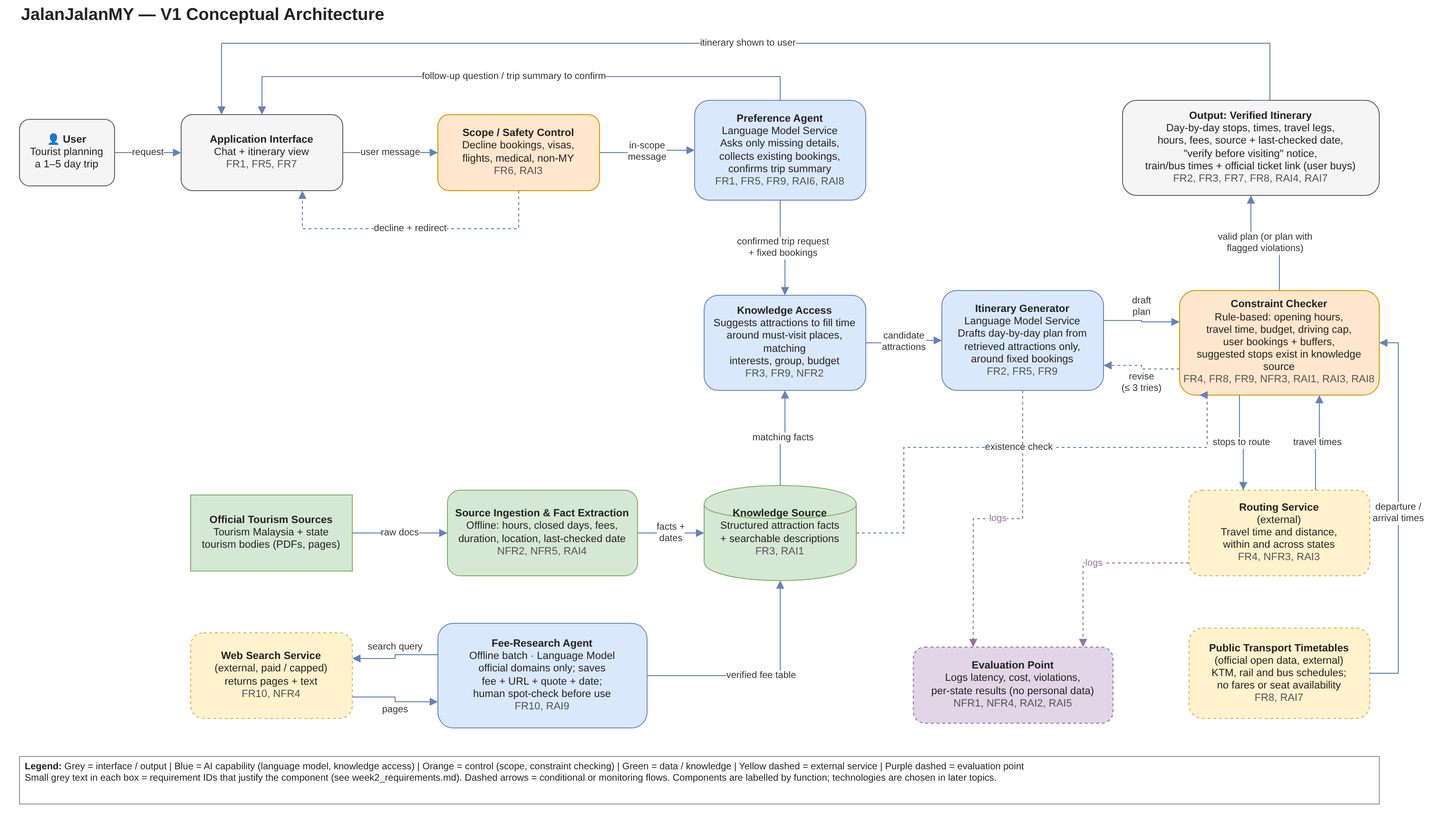
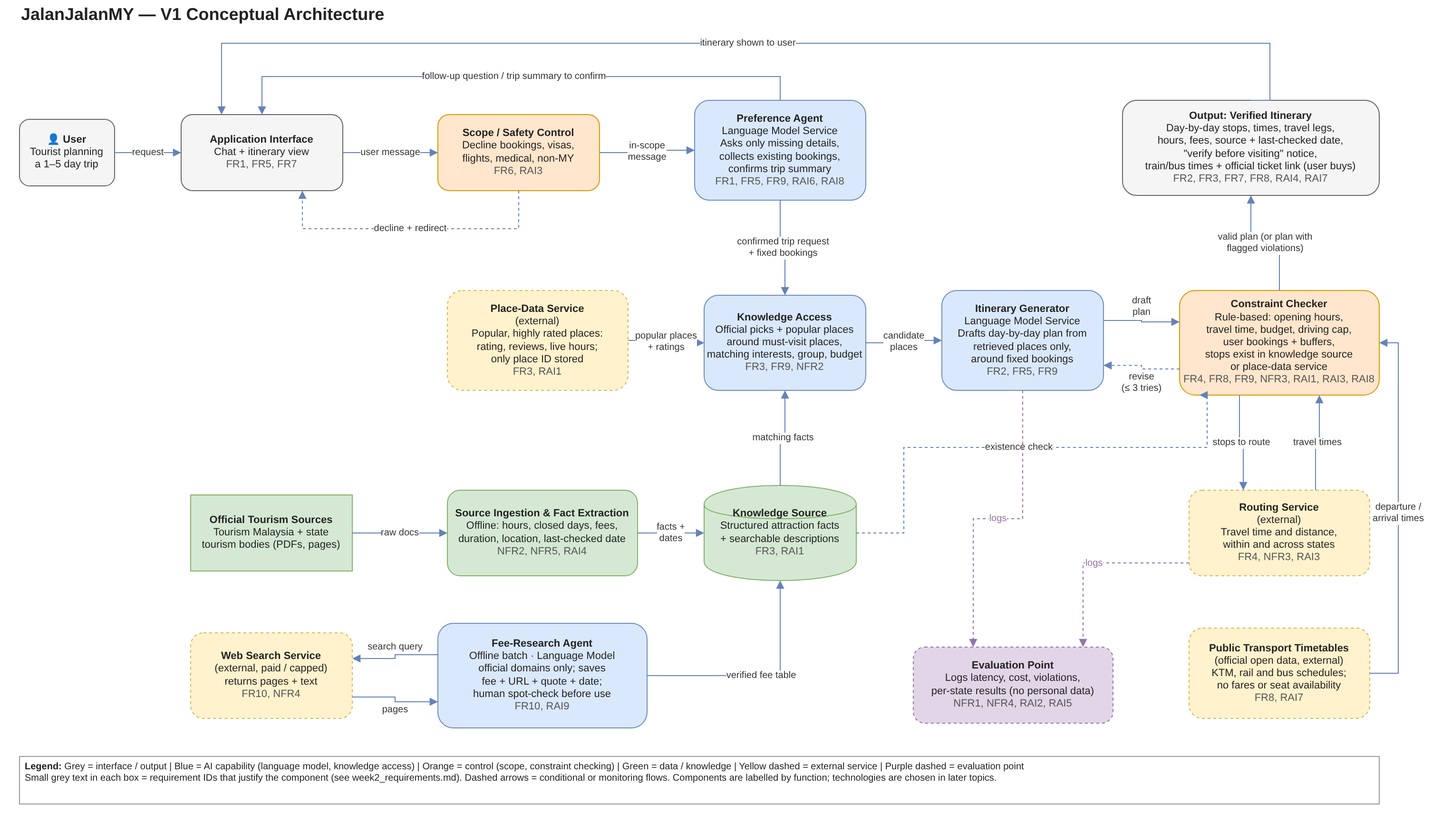
Week 2: add popular places (place-data service) to grounding sources

Changed region(s): [[0.28, 0.339, 0.591, 0.4932], [0.8399, 0.4007, 0.9332, 0.4623], [0.6843, 0.4007, 0.7466, 0.4315]]

diff --git a/docs/week2_requirements.md b/docs/week2_requirements.md
@@ -2,6 +2,7 @@
 
 Version: 1.0
 Project: JalanJalanMY — Grounded Itinerary Planner for Malaysia
+Builds on: `docs/week1_project_scope.md`
 
 ---
 
@@ -11,17 +12,18 @@ Project: JalanJalanMY — Grounded Itinerary Planner for Malaysia
 |---|---|
 | **Problem Evidence** | **1. AI travel tools give wrong or non-existent recommendations.** In an August 2026 survey of U.S. leisure travellers, 16% of those who used AI for travel were recommended a place, tour or activity that did not exist, and 55% received at least one bad recommendation. Incorrect prices, hours or details was the most common problem (27%). Source: Greetwell survey via Stacker/KEYT, 16 Sept 2026 — https://keyt.com/lifestyle/travel/stacker-travel/2026/09/16/survey-ai-hallucinated-travel-destinations-for-1-in-6-users/ (note: run by a travel concierge company). <br>**2. Malaysia's visitor market is large and growing.** 42.2 million visitor arrivals in 2025 (+11.2% from 38 million in 2024); Visit Malaysia 2026 targets about 45 million visitors. Sources: https://says.com/my/news/malaysia-records-42-2-million-visitors-in-2025 ; https://www.ipohecho.com.my/2025/04/30/malaysia-sets-sights-on-45-million-tourists-rm270-billion-in-revenue-for-vm2026/ <br>Together: many people plan Malaysian trips, and the AI tools they increasingly use are unreliable on exactly the facts a plan depends on (hours, prices, existence). |
 | **Existing Approaches** | **1. TravelPlanner benchmark** (Xie et al., ICML 2024) — evaluates LLM agents on multi-constraint travel planning; shows GPT-4 reached only a 0.6% success rate. <br>**2. LLM + formal verification** (Hao et al., arXiv:2404.11891) — the LLM converts the request into a constraint problem for a solver; 93.9% success on TravelPlanner, but on synthetic U.S. data. <br>**3. Official tourism portals** (Tourism Malaysia e-brochures, state tourism boards) — authoritative attraction information, but static, split by state and not personalised. <br>**4. Itinerary apps** (e.g. Wanderlog) — help users arrange chosen places, but rely on the user or generic web data and do not verify plans against official opening hours. |
-| **Project / Engineering Gap** | LLMs can personalise trips but cannot reliably satisfy hard constraints; official Malaysian tourism information is reliable but fragmented across national and state sources and not personalised; existing planners do not check whether a day — especially a cross-state day — is physically possible. The practical gap is **poor grounding and missing feasibility checking** for personalised Malaysian itineraries. (This is an engineering gap, not a claim of scientific novelty.) |
-| **Objective O1** | To design a grounded itinerary planner for Malaysia that uses official national and state tourism sources as its knowledge base and an external routing service for travel times within and across states. |
+| **Project / Engineering Gap** | LLMs can personalise trips but cannot reliably satisfy hard constraints; official Malaysian tourism information is reliable but fragmented across national and state sources, not personalised, and covers only part of what tourists want to visit (for example, popular cafés and food spots); existing planners do not check whether a day — especially a cross-state day — is physically possible. The practical gap is **poor grounding and missing feasibility checking** for personalised Malaysian itineraries. (This is an engineering gap, not a claim of scientific novelty.) |
+| **Objective O1** | To design a grounded itinerary planner for Malaysia that recommends only verifiable places — official picks from national and state tourism sources (its knowledge base) and popular, highly rated places from a place-data service — and uses an external routing service for travel times within and across states. |
 | **Objective O2** | To develop the planner with a conversational preference agent that collects missing trip details, structured fact extraction (hours, closed days, fees, visit duration, location), preference-based retrieval, a language-model itinerary generator, and a constraint checker that rejects plans with closed venues, impossible travel times or over-budget days. |
 | **Objective O3** | To evaluate the planner on constraint-violation rate, grounding, fact accuracy, preference-collection accuracy, coverage fairness across states, latency and cost. |
 | **Intended Users** | Domestic and international leisure tourists planning a 1–5 day trip in Malaysia (one state, or neighbouring states by road), including families, elderly travellers and users with budget, accessibility or dietary needs. |
-| **Supported Tasks** | 1. Collect trip preferences through a short conversation (destination, days, budget, transport, interests, group, pace, accessibility/food needs). <br>2. Generate a day-by-day itinerary with times, stops and travel legs. <br>3. Show each stop's opening hours, fee and official source with a "last checked" date. <br>4. Check and report feasibility (opening hours, travel time, budget). <br>5. Revise the plan when the user changes a preference (e.g. "add Ipoh", "make it cheaper"). |
-| **Information / Knowledge Domain** | Official Malaysian tourism information: attractions, opening hours, closed days, entry fees, typical visit duration, location and category, from Tourism Malaysia and state tourism bodies. Travel time and distance from a routing service. Full evaluation on 4 states: Penang, Kuala Lumpur, Melaka, Sabah. |
+| **Supported Tasks** | 1. Collect trip preferences through a short conversation (destination, days, budget, transport, interests, group, pace, accessibility/food needs). <br>2. Generate a day-by-day itinerary with times, stops and travel legs. <br>3. Show each stop's opening hours, fee and source ("Official guide" or "Popular" with its rating) with a "last checked" date. <br>4. Check and report feasibility (opening hours, travel time, budget). <br>5. Revise the plan when the user changes a preference (e.g. "add Ipoh", "make it cheaper"). <br>6. For public-transport legs, show scheduled departure and arrival times from official operator timetables, with a link to the operator's official ticketing site so the user can buy the ticket themselves. <br>7. Plan around the user's existing bookings and fixed plans — booked flights, buses or trains (place and departure/arrival time), hotel location, timed reservations and a few must-visit places (typically 2–3); the system suggests the remaining stops. |
+| **Information / Knowledge Domain** | Official Malaysian tourism information: attractions, opening hours, closed days, entry fees, typical visit duration, location and category, from Tourism Malaysia and state tourism bodies. Popular, highly rated places (name, rating, review count, location, live opening hours) from a place-data service (Google Places). Travel time and distance from a routing service. Official public transport timetables (KTMB, Rapid KL / Rapid Penang, BAS.MY) from Malaysia's open-data portal. A verified fee table for ticketed attractions, built in advance by a fee-research agent from official attraction websites and government pages. Full evaluation on 4 states: Penang, Kuala Lumpur, Melaka, Sabah. |
 | **Operating Context** | A web application used before a trip (planning at home) and occasionally during the trip on a phone. Single user per session; no account required. |
-| **Important Constraints** | **Data:** official sources differ in format and detail by state; hours and fees change over time. **Access:** the routing service has a monthly free usage cap (10,000 requests per SKU per month for route computation); routing results may not be stored long-term under the provider's terms. **Budget:** student project — near-zero running cost. **Time:** one semester. **Policy:** source documents not redistributed in the public repo; API keys never committed. **Technical:** cross-state routing by road only within Peninsular Malaysia. |
-| **Explicit Out-of-Scope Tasks** | Booking or paying for hotels, transport, tickets or tours. Flights, including Peninsular ↔ East Malaysia. Trips outside Malaysia. Visa, immigration or legal advice. Medical or safety-critical advice (e.g. whether a hike is safe for a heart condition). Recommending places that are not in the official knowledge base. Guaranteeing that hours or prices are current. |
-| **Evaluation Focus** | Does JalanJalanMY produce personalised itineraries that are **grounded** (every stop comes from an official source), **feasible** (no closed venues, achievable travel times, within budget) and **accurate** (correct hours and fees) — consistently across states — at acceptable latency and cost? |
+| **Important Constraints** | **Data:** official sources differ in format and detail by state; hours and fees change over time. **Access:** the routing service has a monthly free usage cap (10,000 requests per SKU per month for route computation); routing results may not be stored long-term under the provider's terms; the place-data service has a similar free cap and its terms allow only the place ID to be stored, so ratings and hours are fetched live and shown with the provider's attribution. **Budget:** student project — near-zero running cost. **Time:** one semester. **Policy:** source documents not redistributed in the public repo; API keys never committed. **Technical:** cross-state routing by road only within Peninsular Malaysia. Official timetables contain schedules only — no fares or seat availability, and there is no public ticketing API, so the system cannot check or buy tickets. Web search is available only through paid or capped search services (Google's own search API is closing to new users), and search results can show outdated or reseller prices, so fees are researched in a batch and verified, not searched live for every user. |
+| **Explicit Out-of-Scope Tasks** | Booking or paying for hotels, transport, tickets or tours. Checking ticket prices or seat availability. Searching, comparing or booking flights (users may enter a flight they have already booked, and the plan works around it). Trips outside Malaysia. Changing, cancelling or verifying the user's bookings. Visa, immigration or legal advice. Medical or safety-critical advice (e.g. whether a hike is safe for a heart condition). Recommending places that cannot be verified in the official knowledge base or the place-data service. Guaranteeing that hours or prices are current. |
+| **Evaluation Focus** | Does JalanJalanMY produce personalised itineraries that are **grounded** (every stop comes from an official guide or a verified place-data record), **feasible** (no closed venues, achievable travel times, within budget) and **accurate** (correct hours and fees) — consistently across states — at acceptable latency and cost? |
+| **Traceability** | O1 → FR3, FR4, NFR2, RAI1 (grounding, sources). O2 → FR1, FR2, FR5, FR6, FR8, FR9, FR10, NFR1, NFR3, RAI7, RAI8, RAI9 (agents, planning, checking, public transport legs, fixed bookings, verified fees). O3 → all NFR and RAI thresholds, evaluated in `week2_evaluation_criteria.md`. |
 
 ---
 
@@ -29,12 +31,16 @@ Project: JalanJalanMY — Grounded Itinerary Planner for Malaysia
 
 | # | Requirement — The system SHALL | Scope Boundary — SHALL NOT (where relevant) |
 |---|---|---|
-| FR1 | Ask the user for any missing trip details (destination state(s), number of days, daily budget, transport mode, interests, travel group, pace, accessibility and dietary needs), and confirm a trip summary before generating a plan. | Generate a plan without confirming the trip summary, or ask again for details the user has already given. |
+| FR1 | Ask the user for any missing trip details (destination state(s), number of days, daily budget, transport mode, interests, travel group, pace, accessibility and dietary needs, and any existing bookings or must-visit places), and confirm a trip summary before generating a plan. | Generate a plan without confirming the trip summary, or ask again for details the user has already given. |
 | FR2 | Generate a day-by-day itinerary for 1–5 days showing, for each stop, the planned arrival time, visit duration and travel time from the previous stop. | Plan trips longer than 5 days, trips outside Malaysia, or trips requiring flights. |
-| FR3 | Include only attractions that exist in the official-source knowledge base, and show each stop's opening hours, entry fee, source reference and "last checked" date. | Recommend or invent places, events or details not supported by an official source. |
-| FR4 | Check every plan before display for: venue open at the planned time, achievable travel time between consecutive stops, and total daily cost within the user's budget; and revise or flag any plan that fails a check. | Show a plan containing a known violation without clearly marking it. |
+| FR3 | Suggest only verified places: attractions in the official-source knowledge base ("Official guide") or popular places from the place-data service that meet a popularity threshold (proposed: rating ≥ 4.2 from ≥ 500 reviews; "Popular on Google Maps, 4.6★"). Show each suggested stop's label, opening hours, entry fee, source reference and "last checked" date. Places the user names that cannot be found in either source may be included, labelled "added by you — details not verified". | Recommend or invent places, events or details not supported by an official source or a place-data record; rank places by rating alone. |
+| FR4 | Check every plan before display for: venue open at the planned time, achievable travel time between consecutive stops, total daily cost within the user's budget, and the user's fixed bookings respected with time buffers; and revise or flag any plan that fails a check. | Show a plan containing a known violation without clearly marking it. |
 | FR5 | Update the itinerary when the user changes a preference (e.g. adds a state, lowers the budget, changes the pace), and re-run the feasibility checks. | Silently drop previously confirmed preferences when updating. |
 | FR6 | Decline requests outside the defined trip-planning scope (bookings, payments, visas, flights, medical or legal questions, non-Malaysian destinations) and redirect the user to an appropriate official channel. | Perform bookings or payments, or give visa, legal or medical advice. |
+| FR7 | Present itineraries in clear English suitable for domestic and international tourists, including a "verify before visiting" notice. | — |
+| FR8 | For public-transport legs (e.g. KTM, LRT/MRT, buses), show the scheduled departure and arrival times from the operator's official timetable, and a link to the operator's official ticketing page so the user can buy the ticket themselves. | Check seat availability or fares, sell tickets, or book on the user's behalf; collect data from ticketing websites by scraping. |
+| FR9 | Accept fixed commitments entered by the user — booked transport (flight, bus or train: station/airport and departure/arrival time), accommodation location, timed reservations and must-visit places — and build the itinerary around them: start each day's activities after arrival plus a buffer, end before departure minus a buffer, and include the user's must-visit places (typically 2–3) or explain why one cannot fit. The remaining time shall be filled with places the system suggests from the knowledge base and the place-data service to match the user's preferences and the location of the fixed points. | Move, change, cancel or verify the user's bookings; silently drop a must-visit place; ask for booking references, ticket numbers or passenger names. |
+| FR10 | Show the entry fee for ticketed attractions from a verified fee table built by a fee-research agent. The agent searches the web for each attraction's official price, accepts only official sources (the attraction's own website or government domains), and saves the fee with its source URL, the exact quoted sentence and the date found. Fees not in the table are shown as "check the official site". | Use reseller or blog prices; show a price without a source and date; search the web live for every user request. |
 
 ---
 
@@ -45,7 +51,7 @@ Project: JalanJalanMY — Grounded Itinerary Planner for Malaysia
 | NFR1 | Performance | The system shall return a complete verified itinerary within an acceptable waiting time, and respond to each preference question quickly. | Run the 40-request evaluation workload (10 per evaluated state, including 10 cross-state trips) and log end-to-end time; separately log time per preference-agent turn. | p90 itinerary latency; p90 agent-turn latency | Itinerary ≤ 20 s; agent turn ≤ 4 s |
 | NFR2 | Correctness | Opening hours and entry fees shown in itineraries shall match the official source. | Hand-check a random sample of at least 50 displayed stops against their official source pages. | Fact accuracy (%) | ≥ 95% |
 | NFR3 | Reliability | Displayed itineraries shall be feasible: no closed venues, achievable travel times, within budget. | Run the 40-request workload; check each displayed plan with an independent script (opening hours + recomputed travel times + cost total). | % of plans with zero constraint violations | ≥ 95% |
-| NFR4 | Cost | Running cost shall fit a student budget. | Record language-model token usage and routing-service calls across the evaluation workload. | Model cost per itinerary; routing calls per month | ≤ US$0.05 per itinerary (illustrative); routing calls within the provider's monthly free cap |
+| NFR4 | Cost | Running cost shall fit a student budget. | Record language-model token usage, routing-service calls and place-data calls across the evaluation workload. | Model cost per itinerary; routing and place-data calls per month; search requests per fee-table refresh | ≤ US$0.05 per itinerary (illustrative); routing calls, place-data calls and search requests within the providers' monthly free allowances |
 | NFR5 | Maintainability | Updated or newly added official source documents (e.g. a new state) shall be incorporated without code changes to other components. | Controlled update test: replace one state's source document and add one new state's sources; time the process. | Update time; code files changed | ≤ 15 min; 0 code files changed |
 
 ---
@@ -54,15 +60,18 @@ Project: JalanJalanMY — Grounded Itinerary Planner for Malaysia
 
 | # | Responsible AI Risk | Requirement | Measurement Method | Metric | Threshold |
 |---|---|---|---|---|---|
-| RAI1 | Hallucination / Grounding | Every stop shall be traceable to an official source in the knowledge base, with a working source reference. | For all displayed stops in the evaluation workload, match each stop to a knowledge-base entry and check the source reference. | Grounded-stop rate; source-reference presence rate | 100% grounded; 100% presence |
+| RAI1 | Hallucination / Grounding | Every stop the system suggests shall be traceable to an official source in the knowledge base or to a place-data record, with a working source reference and the correct label; user-named places found in neither source shall be clearly labelled as not verified. | For all displayed stops in the evaluation workload, match each suggested stop to a knowledge-base entry or a place-data record and check the source reference and label; check that every user-named place found in neither source carries the label. | Grounded-stop rate; source-reference presence rate | 100% grounded; 100% presence |
 | RAI2 | Fairness / Coverage across states | Plan quality shall not differ beyond an agreed tolerance between evaluated states. | Compute NFR3 feasibility rate and preference-match rate separately for Penang, Kuala Lumpur, Melaka and Sabah. | Largest gap between any two states | ≤ 10 percentage points |
 | RAI3 | Safety / Scope | The system shall decline out-of-scope or unsafe requests and redirect appropriately, and shall cap daily driving time. | Run a scope/safety test set of at least 20 queries (bookings, visas, medical, flights, foreign destinations, unsafe activities); check all cross-state plans for driving time. | Refusal-and-redirect success rate; plans exceeding the driving cap | ≥ 95% refusal success; 0 plans with > 5 h driving per day |
 | RAI4 | Outdated information / Transparency | Every stop shall show a "last checked" date, and stops whose source is older than the freshness limit shall be flagged. | Inspect all displayed stops; compare source dates against the freshness limit. | Date-shown rate; unflagged stale stops | 100% shown; 0 unflagged stops older than 6 months |
 | RAI5 | Privacy & Security | The system shall not store personal data from conversations, and API keys shall never appear in the repository or client. | Inspect logs after the test workload for names/phone numbers/emails; run a secret scan on the repository history. | PII items found in logs; secrets found in repo | 0; 0 |
 | RAI6 | Misread preferences | The preference agent shall correctly capture the user's stated trip details. | Run 30 scripted conversations with known target values (including vague answers like "not too expensive"); compare the confirmed summary to the targets. | Slot-filling accuracy; average questions per conversation | ≥ 90% accuracy; ≤ 5 questions |
+| RAI7 | Timetable changes / Transparency | Every public-transport leg shall match the official timetable, show a "times may change — check with the operator" notice, and link to the official ticketing page. | Check a sample of at least 20 public-transport legs against the operator's published timetable; inspect every leg for the notice and a working official link. | Timetable match rate; legs with notice and working link | ≥ 95%; 100% |
+| RAI8 | Missed connections | Plans shall never cause the user to miss a booked flight, bus or train: entered bookings are read back for confirmation, and minimum buffers apply (default: arrive ≥ 90 min before a domestic flight and ≥ 30 min before a train or bus; start activities ≥ 60 min after a flight lands and ≥ 15 min after a train or bus arrives). | Run at least 15 workload requests with entered bookings (including tight and impossible cases); check every plan against the bookings and buffers. | Plans violating a booking or buffer; impossible cases clearly reported to the user | 0; 100% |
+| RAI9 | Fee provenance / Hallucination | Every fee in the table shall come from an official source and be backed by a quoted sentence from that source, and the agent's extracted fees shall match the official pages. | Hand-check at least 30 fees from the table against their official pages (ticket type, price, currency); audit every row for an official URL, a quote and a date; check every source domain against the allowlist. | Fee match rate; rows with URL + quote + date; rows from non-official domains | ≥ 95%; 100%; 0 |
 
 ---
 
-## Reflection — Which Responsible AI requirement is most difficult to measure or enforce?
+## 🤔 Reflection — Which Responsible AI requirement is most difficult to measure or enforce?
 
-**RAI4 (outdated information)** is the hardest to enforce. RAI1 can be enforced in code because a stop either exists in the knowledge base or it does not. RAI4 depends on facts that change in the real world without telling us: a museum can change its hours or close permanently the day after we collect the data, and the official page itself may be out of date. The system can only show the date we last checked and flag old entries — it cannot know the true current state. Measuring it is also costly, because checking whether the information is still correct needs manual re-verification of each source. This means RAI4 reduces the harm (users are warned) rather than removing it, which is why the "verify before visiting" notice is part of FR7.
+**RAI4 (outdated information)** is the hardest to enforce. RAI1 can be enforced in code because a stop either exists in the knowledge base or the place-data service, or it does not. RAI4 depends on facts that change in the real world without telling us: a museum can change its hours or close permanently the day after we collect the data, and the official page itself may be out of date. The system can only show the date we last checked and flag old entries — it cannot know the true current state. Measuring it is also costly, because checking whether the information is still correct needs manual re-verification of each source. This means RAI4 reduces the harm (users are warned) rather than removing it, which is why the "verify before visiting" notice is part of FR7.

diff --git a/docs/week2_architecture_decisions.md b/docs/week2_architecture_decisions.md
@@ -1,7 +1,8 @@
 # Architecture Decisions & Traceability — JalanJalanMY
 
-Version: 1.0
+Version: 1.1 (popular places added to grounding sources)
 Diagram: `docs/week2_architecture_v1.png`
+Builds on: `docs/week2_requirements.md`, `docs/week2_evaluation_criteria.md`
 
 ---
 
@@ -15,7 +16,7 @@ User Query → AI Application → AI Capability (language model) → Response
 **AI capability needed:** a language model that turns preferences into a plan.
 
 **Can this support our requirements?** Only partly. A language model alone can write a personalised plan (FR2), but it cannot:
-- guarantee every stop is real and from an official source (FR3, RAI1) — it plans from its own memory;
+- guarantee every stop is real and verifiable, from an official guide or a place-data record (FR3, RAI1) — it plans from its own memory;
 - know current opening hours and fees (NFR2);
 - calculate real travel times, especially across states (FR4, NFR3);
 - reliably refuse bookings, visas or unsafe requests (FR6, RAI3).
@@ -28,12 +29,15 @@ The TravelPlanner benchmark in our related work confirms this: a language model 
 
 | Requirement ID | What does the requirement need? | Architecture Response |
 |---|---|---|
-| FR3 / RAI1 | Every stop must come from an official source, with a source reference. | **Knowledge Source** of official attraction facts + **Knowledge Access** that retrieves only from it |
+| FR3 / RAI1 | Every stop must be verifiable — an official pick or a popular, highly rated place (proposed ≥ 4.2★ from ≥ 500 reviews) — with a source reference and label. | **Knowledge Source** of official attraction facts + external **Place-Data Service** for popular places (only the place ID stored) + **Knowledge Access** that retrieves only from these two |
 | NFR2 / RAI4 / NFR5 | Hours and fees must match the source, carry a "last checked" date, and be easy to update per state. | **Source Ingestion & Fact Extraction** (offline) that turns official documents into structured facts with dates |
 | FR4 / NFR3 | Plans must be checked for opening hours, travel time and budget before display. | **Constraint Checker** (rule-based) with a revise loop back to the generator |
 | FR4 / NFR3 / RAI3 | Real travel times are needed, within and across states, plus a daily driving cap. | External **Routing Service** called by the Constraint Checker |
 | FR1 / RAI6 | Missing trip details must be collected and confirmed before planning. | **Preference Agent** (language model service) in front of the planner |
 | FR6 / RAI3 | Bookings, visas, flights, medical and non-Malaysia requests must be declined and redirected. | **Scope / Safety Control** before the Preference Agent |
+| FR8 / RAI7 | Public-transport legs need official departure/arrival times and a link to the official ticketing site; no ticket checking or buying. | **Public Transport Timetables** (official open data) used by the generator and checker; output shows times + official ticketing link |
+| FR9 / RAI8 | The user's booked flights, trains, buses, hotel, reservations and must-visit places must shape the plan, with buffers so no connection is missed. | **Preference Agent** collects and reads back fixed bookings; **Itinerary Generator** plans around them; **Constraint Checker** enforces them as hard constraints with buffers |
+| FR10 / RAI9 | Entry fees for ticketed attractions must come from official sources with proof (URL, quote, date), and reseller prices must be rejected. | **Fee-Research Agent** (offline batch, language model + external **Web Search Service**) writes a **verified fee table** into the Knowledge Source after a human spot-check |
 | NFR1 / NFR4 / RAI2 / RAI5 | Latency, cost and per-state quality must be measured, without storing personal data. | **Evaluation Point** that logs metrics only (no personal data) |
 
 ---
@@ -42,11 +46,14 @@ The TravelPlanner benchmark in our related work confirms this: a language model 
 
 | Decision | Requirement / Constraint | Alternatives Considered | Selected Option | Trade-off Accepted |
 |---|---|---|---|---|
-| **AD1 — Ground plans in official knowledge** | FR3, RAI1, NFR2: every stop must exist in an official source with correct hours and fees | (a) Language model only; (b) live web search at query time; (c) curated knowledge source built from official documents | (c) Curated knowledge source + knowledge access | Smaller coverage (only places in official sources) and manual effort to collect and refresh data, in exchange for 100% grounding and checkable facts |
+| **AD1 — Ground plans in verified place data** | FR3, RAI1, NFR2: every stop must exist in a verifiable record with correct hours and fees; tourists also want popular places that brochures leave out | (a) Language model only; (b) live open web search at query time; (c) curated knowledge source from official documents only; (d) official knowledge source + popular places from a place-data service (e.g. Google Places) | (d) Official knowledge source + place-data service, both behind Knowledge Access; each stop labelled "Official guide" or "Popular" | Dependence on a third-party service, its free cap and terms (ratings and hours fetched live, only the place ID stored), and a popularity bias towards famous, crowded places (mitigated by ranking on interest match first and including at least one official or local pick per day); in exchange, much wider choice than brochures while keeping 100% grounding — no stop comes from model memory |
 | **AD2 — Separate rule-based constraint checker** | FR4, NFR3: displayed plans must be feasible (≥ 95% with zero violations) | (a) Ask the language model to respect constraints in its instructions; (b) full constraint solver that builds the plan; (c) language model drafts, rule-based checker verifies and requests revisions | (c) Generate-then-verify with up to 3 revision attempts | Extra latency and model cost per revision, and a plan may still be shown with flagged violations after 3 attempts; but much more reliable than instructions alone and simpler to build than a full solver |
 | **AD3 — External routing service for travel time** | FR4, NFR3, RAI3: real travel times within and across states; NFR4: low cost | (a) Straight-line distance × assumed speed; (b) open-source routing engine hosted ourselves; (c) external routing service | (c) External routing service, called only by the checker, results not stored long-term | Dependency on a third-party service, its usage cap and terms (results used live, not saved); in exchange for accurate road travel times without hosting our own routing |
 | **AD4 — Preference agent before planning** | FR1, RAI6: collect and confirm missing details with ≤ 5 questions | (a) Fixed form with all fields; (b) free-text request passed straight to the planner; (c) conversational agent that asks only for missing details | (c) Preference agent with a confirmed trip summary | More complex to build and test, and an extra language-model call per turn (latency, cost); but fewer unnecessary questions than a form and fewer misread requests than free text |
 | **AD5 — Explicit scope / safety control** | FR6, RAI3: ≥ 95% correct refusal of out-of-scope requests | (a) Instructions in the agent's prompt only; (b) explicit scope-control component before the agent | (b) Explicit scope / safety control | Possible false refusals of valid trip requests and an extra processing step; but scope behaviour can be tested and changed on its own |
+| **AD6 — Timetables + official ticketing links for public transport** | FR8, RAI7: show real departure/arrival times; FR6: no booking; legal and terms-of-use constraints | (a) Scrape ticketing sites for prices and seat availability; (b) third-party paid ticketing/booking API; (c) official open timetable data for times + a link to the operator's official ticketing page | (c) Official timetables + ticketing link; the user buys the ticket themselves | Users must check prices and seat availability on the operator's site, and timetables may change without notice; in exchange, no scraping, no payment handling, no paid API, and the system stays within its "plan, don't book" scope |
+| **AD7 — User bookings as hard constraints** | FR9, RAI8: never cause a missed flight, train or bus; respect must-visit places | (a) Mention bookings to the language model in its instructions only; (b) treat bookings as fixed time blocks that the generator plans around and the constraint checker enforces with minimum buffers | (b) Fixed time blocks + enforced buffers; bookings read back to the user for confirmation | Less flexibility — days with tight bookings get fewer stops, and when bookings and must-visit places cannot all fit, the system reports the conflict instead of producing a "complete" plan; in exchange, connections are protected by rules, not left to the model |
+| **AD8 — Fee-research agent in a verified batch** | FR10, RAI9: official fees with proof; NFR4: low cost; brochures carry almost no prices (Week 3–4 evidence) | (a) Collect fees fully by hand; (b) search the web live for every user request; (c) an agent searches in a batch, accepts only allowlisted official domains, saves URL + quote + date, then a person spot-checks before use | (c) Batch fee-research agent + human spot-check | Fees can be out of date between refreshes (mitigated by the date shown), and the batch needs a search service with a paid or capped allowance; in exchange, prices are checkable, reseller and invented prices are blocked, and users wait for no live searches |
 
 ---
 
@@ -54,10 +61,13 @@ The TravelPlanner benchmark in our related work confirms this: a language model 
 
 | Objective | Requirement | Evaluation Criterion | Architecture Element | Later Evidence |
 |---|---|---|---|---|
-| O1 | FR3 / RAI1 | Grounding and Source Traceability (100% grounded, 100% source refs) | Knowledge Source + Knowledge Access + Constraint Checker (existence check) | Grounding check over all stops in the 40-request workload |
+| O1 | FR3 / RAI1 | Grounding and Source Traceability (100% grounded, 100% source refs) | Knowledge Source + Place-Data Service + Knowledge Access + Constraint Checker (existence check) | Grounding check over all stops in the 40-request workload |
 | O1 | NFR2 / RAI4 | Fact Accuracy (≥ 95%) + last-checked dates | Source Ingestion & Fact Extraction | Hand-check of ≥ 50 stops against official pages; date/freshness audit |
 | O2 | FR4 / NFR3 | Plan Feasibility (≥ 95% zero-violation plans) | Constraint Checker + Routing Service | Independent feasibility script over the 40-request workload |
 | O2 | FR1 / RAI6 | Preference Collection (≥ 90% slot accuracy, ≤ 5 questions) | Preference Agent | 30 scripted conversations with known targets |
+| O2 | FR8 / RAI7 | Public Transport Leg Accuracy (≥ 95% timetable match; 100% notice + link) | Public Transport Timetables + Constraint Checker + Output | Sample check of ≥ 20 legs against operator timetables |
+| O2 | FR9 / RAI8 | Fixed-Booking Handling (0 violated bookings/buffers; 100% impossible cases reported) | Preference Agent + Itinerary Generator + Constraint Checker | ≥ 15 workload requests with entered bookings, incl. tight and impossible cases |
+| O1 | FR10 / RAI9 | Fee Research Accuracy (≥ 95% fee match; 100% URL + quote + date; 0 non-official domains) | Fee-Research Agent + Web Search Service + Knowledge Source (fee table) | Hand-check of ≥ 30 fees against official pages; audit of every fee row |
 | O2 | FR6 / RAI3 | Out-of-Scope Refusal (≥ 95%) | Scope / Safety Control | Scope/safety test set of ≥ 20 queries |
 | O3 | RAI2 | Coverage Fairness (≤ 10 pp gap between states) | Knowledge Source (per-state coverage) + Evaluation Point | Per-state feasibility and interest-match results |
 | O3 | NFR1 / NFR4 | Latency and Cost (p90 ≤ 20 s; ≤ US$0.05 per itinerary) | Evaluation Point | Latency and cost logs from the evaluation workload |
@@ -69,7 +79,7 @@ The TravelPlanner benchmark in our related work confirms this: a language model 
 | Question | Answer |
 |---|---|
 | Does each major component support a requirement or evaluation need? | Yes — every box in the diagram lists the requirement IDs that justify it (see Step C2). |
-| Is any important data source, safety control or evaluation point missing? | Official sources, scope control, constraint checker and an evaluation point are all present. A user-feedback loop is not in V1; it can be added once the system is tested with users. |
+| Is any important data source, safety control or evaluation point missing? | Official sources, a place-data service for popular places, scope control, constraint checker and an evaluation point are all present. A user-feedback loop is not in V1; it can be added once the system is tested with users. |
 | Have I added any technology or component that is not yet justified? | No specific technologies are named; components are labelled by function. Agentic re-planning during the trip is left out of V1 because no V1 requirement needs it. |
 | Is there a simpler architecture that could still satisfy the requirements? | Removing the Preference Agent (using a fixed form) would still satisfy FR2–FR4, but not FR1/RAI6 as written. If time runs short, a form is the fallback, and FR1 would be revised. |
 

diff --git a/docs/week2_evaluation_criteria.md b/docs/week2_evaluation_criteria.md
@@ -1,19 +1,23 @@
 # Evaluation Criteria — JalanJalanMY
 
 Version: 1.0
+Builds on: `docs/week2_requirements.md`
 
-**Evaluation workload (used by several criteria):** 40 trip requests — 10 per evaluated state (Penang, Kuala Lumpur, Melaka, Sabah), of which 10 in total are cross-state road trips in Peninsular Malaysia. Requests vary days (1–5), budget, transport, travel group and interests. Plus a scope/safety set of at least 20 queries and 30 scripted preference conversations.
+**Evaluation workload (used by several criteria):** 40 trip requests — 10 per evaluated state (Penang, Kuala Lumpur, Melaka, Sabah), of which 10 in total are cross-state road trips in Peninsular Malaysia. Requests vary days (1–5), budget, transport, travel group and interests. Plus a scope/safety set of at least 20 queries and 30 scripted preference conversations. At least 10 workload requests use public transport, so the plans include KTM, rail or bus legs, and at least 15 include user-entered bookings (e.g. a flight landing at Kota Kinabalu at 10:00 am).
 
 | Objective / Requirement ID | Evaluation Criterion | Capability Bucket | Measurement Method | Metric | Threshold | User / Business Outcome |
 |---|---|---|---|---|---|---|
 | O2 / FR4 / NFR3 | Plan Feasibility | Domain-specific capability | Check every displayed plan from the 40-request workload with an independent script: venue open at planned time, travel time recomputed between stops, daily cost total. | % of plans with zero constraint violations | ≥ 95% | Tourists can follow the plan as written without arriving at closed venues or missing stops. |
-| O1 / FR3 / RAI1 | Grounding and Source Traceability | Instruction-following capability | Match every displayed stop to a knowledge-base entry and confirm its source reference is present and points to the official page. | Grounded-stop rate; source-reference presence rate | 100%; 100% | No non-existent places; users can verify any stop against an official source. |
+| O1 / FR3 / RAI1 | Grounding and Source Traceability | Instruction-following capability | Match every suggested stop to a knowledge-base entry or a place-data record and confirm its source reference and label ("Official guide" / "Popular") are present and correct; check user-named places found in neither source are labelled "not verified". | Grounded-stop rate; source-reference presence rate | 100%; 100% | No non-existent places; users can verify any stop against an official guide or its map listing. |
 | O3 / NFR2 | Fact Accuracy (hours and fees) | Domain-specific capability | Hand-check a random sample of ≥ 50 displayed stops against their official source pages. | Fact accuracy (%) | ≥ 95% | Users can rely on the times and prices shown when planning their day and budget. |
 | O2 / FR1 / RAI6 | Preference Collection | Instruction-following capability | Run 30 scripted conversations with known target values, including vague answers; compare the confirmed trip summary with the targets. | Slot-filling accuracy; average questions per conversation | ≥ 90%; ≤ 5 questions | Plans match what the user actually wants, without a long questionnaire. |
 | O3 / RAI2 | Coverage Fairness across States | Domain-specific capability | Compute plan feasibility and interest-match rates separately for each evaluated state. | Largest gap between any two states | ≤ 10 percentage points | Tourists get similar quality whichever state they visit, including East Malaysia. |
 | O2 / FR6 / RAI3 | Out-of-Scope Refusal | Instruction-following capability | Run the scope/safety set (bookings, visas, flights, medical, foreign destinations, unsafe activities). | Refusal-and-redirect success rate | ≥ 95% | Users are not misled into thinking the system books, advises on visas, or approves unsafe plans. |
+| O2 / FR8 / RAI7 | Public Transport Leg Accuracy | Domain-specific capability | Check ≥ 20 public-transport legs from the workload against the operator's published timetable; inspect every leg for the "times may change" notice and a working official ticketing link. | Timetable match rate; legs with notice and working link | ≥ 95%; 100% | Users can catch the suggested train or bus, and buy tickets themselves on the official site. |
+| O2 / FR9 / RAI8 | Fixed-Booking Handling | Domain-specific capability | Run ≥ 15 workload requests with user-entered bookings (flights, trains, buses, hotel, reservations, must-visit places), including tight and impossible cases; check each plan against the bookings and minimum buffers. | Plans violating a booking or buffer; must-visit places included or explained; impossible cases reported; free time filled with suggested stops that match interests | 0; 100%; 100%; ≥ 80% interest match | Users never miss a booked flight, train or bus, their own picks are respected, and the rest of the day is filled with relevant suggestions. |
+| O1 / FR10 / RAI9 | Fee Research Accuracy | Domain-specific capability | Run the fee-research agent over the ticketed attractions in the 4 evaluated states; hand-check at least 30 extracted fees against the official pages; audit every row for source URL, quote, date and an allowlisted domain. | Fee match rate; rows with URL + quote + date; rows from non-official domains | ≥ 95%; 100%; 0 | Tourists see the real official price, with a source they can check, so the daily budget in the plan is trustworthy. |
 | O3 / FR7 | Itinerary Clarity | Generation capability | Three test users rate 10 itineraries on a simple 1–5 rubric (easy to follow, times clear, sources visible, notice shown). | Mean clarity score | ≥ 4.0 / 5 | Tourists understand and can use the plan without extra explanation. |
-| O3 / NFR1 / NFR4 | Latency and Cost | Cost and latency | Log end-to-end time, agent-turn time, model token usage and routing calls across the workload. | p90 itinerary latency; p90 agent-turn latency; cost per itinerary | ≤ 20 s; ≤ 4 s; ≤ US$0.05 (illustrative), routing within free cap | Responsive enough for planning, and cheap enough to run on a student budget. |
+| O3 / NFR1 / NFR4 | Latency and Cost | Cost and latency | Log end-to-end time, agent-turn time, model token usage and routing calls across the workload, and search requests per fee-table refresh. | p90 itinerary latency; p90 agent-turn latency; cost per itinerary | ≤ 20 s; ≤ 4 s; ≤ US$0.05 (illustrative), routing within free cap | Responsive enough for planning, and cheap enough to run on a student budget. |
 
 ### Simple clarity rubric (for Itinerary Clarity)
 | Score | Meaning |
@@ -26,6 +30,6 @@ Version: 1.0
 
 ---
 
-## Reflection — Which evaluation criterion is most important for usefulness?
+## 🤔 Reflection — Which evaluation criterion is most important for usefulness?
 
 **Plan Feasibility** is the most important. The whole reason for JalanJalanMY is that existing AI planners produce plans that do not work in real life — closed venues, wrong hours, impossible travel. A plan that is personalised and well-written but sends a family to a museum on its closed day, or schedules a 3-hour drive into a 1-hour gap, fails the user at the moment it matters most. Grounding and fact accuracy are necessary parts of feasibility, but feasibility is the criterion that directly tells us whether a tourist can follow the plan as written. If this threshold is not met, the system is no better than the tools it is trying to improve on.
